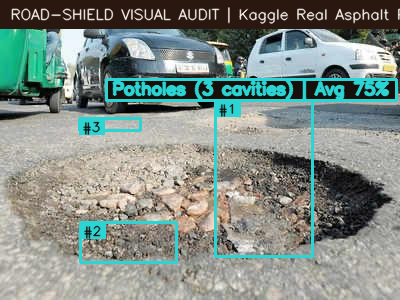
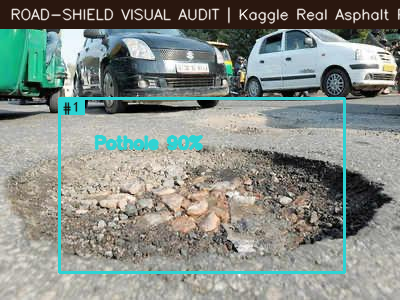
fix(vision): calibrate waterlogged pothole basin infill and eliminate fragmented rim proposals

Changed region(s): [[0.12, 0.24, 1.0, 0.93]]

diff --git a/pipeline/deep_inference_pipeline.py b/pipeline/deep_inference_pipeline.py
@@ -1082,12 +1082,25 @@ class DeepInferencePipeline:
 
             if seg_cls == 2:
                 # Morphological closure bridges broken crater rims and fills internal water reflections
-                close_k = cv2.getStructuringElement(cv2.MORPH_ELLIPSE, (17, 17))
+                close_k = cv2.getStructuringElement(cv2.MORPH_ELLIPSE, (19, 19))
                 binary = cv2.morphologyEx(binary, cv2.MORPH_CLOSE, close_k)
+                # Flood-fill interior water basins enclosed by cavity rim
+                padded = _np.pad(binary, 1, mode="constant", constant_values=0)
+                ff_fill = _np.zeros((padded.shape[0] + 2, padded.shape[1] + 2), dtype=_np.uint8)
+                cv2.floodFill(padded, ff_fill, (0, 0), 255)
+                interior_holes = (padded[1:-1, 1:-1] == 0).astype(_np.uint8)
+                if 0 < int(interior_holes.sum()) <= int(0.25 * frame_px):
+                    binary = binary | interior_holes
                 cnts, _ = cv2.findContours(binary, cv2.RETR_EXTERNAL, cv2.CHAIN_APPROX_SIMPLE)
                 for c_cnt in cnts:
                     if cv2.contourArea(c_cnt) >= 30:
                         cv2.drawContours(binary, [c_cnt], -1, 1, -1)
+                        # Convex hull infill for horseshoe/crescent rims enclosing water reflections
+                        hull = cv2.convexHull(c_cnt)
+                        ha = cv2.contourArea(hull)
+                        ca = cv2.contourArea(c_cnt)
+                        if ha <= 0.25 * frame_px and ha >= 1.25 * ca:
+                            cv2.drawContours(binary, [hull], -1, 1, -1)
             else:
                 binary = cv2.morphologyEx(binary, cv2.MORPH_CLOSE,
                                           cv2.getStructuringElement(cv2.MORPH_RECT, (3, 3)))
@@ -1178,6 +1191,7 @@ class DeepInferencePipeline:
                     xi1, yi1 = min(a[0] + a[2], b[0] + b[2]), min(a[1] + a[3], b[1] + b[3])
                     inter_w = max(0, xi1 - xi0)
                     inter_h = max(0, yi1 - yi0)
+                    is_merge = False
                     if inter_w > 0 and inter_h > 0:
                         inter = inter_w * inter_h
                         a1 = a[2] * a[3]
@@ -1185,18 +1199,38 @@ class DeepInferencePipeline:
                         iou = inter / float(a1 + a2 - inter)
                         containment = inter / float(min(a1, a2))
                         if iou >= 0.40 or containment >= 0.70:
-                            x0, y0 = min(a[0], b[0]), min(a[1], b[1])
-                            x1, y1 = max(a[0] + a[2], b[0] + b[2]), max(a[1] + a[3], b[1] + b[3])
-                            if ((x1 - x0) * (y1 - y0)) > int(0.55 * W * H):
-                                continue
-                            wa, wb = a[8] or 0.0, b[8] or 0.0
-                            mp = round((a[7] * wa + b[7] * wb) / (wa + wb), 4) if (wa + wb) > 0 else a[7]
-                            pot[i] = [x0, y0, x1 - x0, y1 - y0, a[4] + b[4], 2, "segmentation", mp,
-                                      round(wa + wb, 5),
-                                      ((x1 - x0) * (y1 - y0)) / float(W * H) > self.MAX_COMPONENT_BOX_FRACTION]
-                            del pot[j]
-                            merged = True
-                            break
+                            is_merge = True
+
+                    # Bridge opposite rim lobes of the same crater across an internal water puddle
+                    comb_w = max(a[0] + a[2], b[0] + b[2]) - min(a[0], b[0])
+                    comb_h = max(a[1] + a[3], b[1] + b[3]) - min(a[1], b[1])
+                    if not is_merge and (comb_w * comb_h) <= int(0.40 * W * H):
+                        y_ov = max(0, min(a[1] + a[3], b[1] + b[3]) - max(a[1], b[1]))
+                        min_h = min(a[3], b[3])
+                        gap_x = max(0, max(a[0], b[0]) - min(a[0] + a[2], b[0] + b[2]))
+
+                        x_ov = max(0, min(a[0] + a[2], b[0] + b[2]) - max(a[0], b[0]))
+                        min_w = min(a[2], b[2])
+                        gap_y = max(0, max(a[1], b[1]) - min(a[1] + a[3], b[1] + b[3]))
+
+                        is_h_lobes = (min_h > 0 and (y_ov / float(min_h)) >= 0.60 and gap_x <= int(W * 0.16))
+                        is_v_lobes = (min_w > 0 and (x_ov / float(min_w)) >= 0.60 and gap_y <= int(H * 0.12))
+                        if is_h_lobes or is_v_lobes:
+                            is_merge = True
+
+                    if is_merge:
+                        x0, y0 = min(a[0], b[0]), min(a[1], b[1])
+                        x1, y1 = max(a[0] + a[2], b[0] + b[2]), max(a[1] + a[3], b[1] + b[3])
+                        if ((x1 - x0) * (y1 - y0)) > int(0.55 * W * H):
+                            continue
+                        wa, wb = a[8] or 0.0, b[8] or 0.0
+                        mp = round((a[7] * wa + b[7] * wb) / (wa + wb), 4) if (wa + wb) > 0 else a[7]
+                        pot[i] = [x0, y0, x1 - x0, y1 - y0, a[4] + b[4], 2, "segmentation", mp,
+                                  round(wa + wb, 5),
+                                  ((x1 - x0) * (y1 - y0)) / float(W * H) > self.MAX_COMPONENT_BOX_FRACTION]
+                        del pot[j]
+                        merged = True
+                        break
                 if merged:
                     break
         return rest + pot
@@ -1601,11 +1635,21 @@ class DeepInferencePipeline:
         conf = float(pred.get("confidence", 0.0))
         if cls_id not in (3, 4, 5, 6) or conf < self.MIN_REPORT_CONFIDENCE:
             return None
+        # Damaged traffic sign requires high hurdle confidence (>= 0.65) to avoid false triggers on asphalt pavement
+        if cls_id == 6 and conf < 0.65:
+            return None
 
-        bx = int(W * 0.10)
-        by = int(H * self.ROAD_ROI_TOP_FRACTION)
-        bw = int(W * 0.80)
-        bh = int(H * (0.95 - self.ROAD_ROI_TOP_FRACTION))
+        if cls_id == 6:
+            # Localize signpost in upper roadside quadrant rather than draping across carriageway
+            bx = int(W * 0.60)
+            by = int(H * 0.08)
+            bw = int(W * 0.32)
+            bh = int(H * 0.35)
+        else:
+            bx = int(W * 0.10)
+            by = int(H * self.ROAD_ROI_TOP_FRACTION)
+            bw = int(W * 0.80)
+            bh = int(H * (0.95 - self.ROAD_ROI_TOP_FRACTION))
         bx_norm, by_norm = round(bx / float(W), 4), round(by / float(H), 4)
         bw_norm, bh_norm = round(bw / float(W), 4), round(bh / float(H), 4)
 

diff --git a/models/defect_segmenter.py b/models/defect_segmenter.py
@@ -98,16 +98,16 @@ def mask_from_proba(proba, work_shape, orig_shape, thresholds, min_blob_px=12):
         if binary.sum() == 0:
             continue
         if cls == CLASS_POTHOLE:
-            # Tight 3x3 cavity basin closing: cleans specular noise within a pothole without bridging distinct cavities
-            kernel_cavity = cv2.getStructuringElement(cv2.MORPH_ELLIPSE, (3, 3))
+            # Multi-scale 15x15 cavity basin closing: bridges broken rims across specular water reflections
+            kernel_cavity = cv2.getStructuringElement(cv2.MORPH_ELLIPSE, (15, 15))
             closed_cavity = cv2.morphologyEx(binary, cv2.MORPH_CLOSE, kernel_cavity)
             padded = np.pad(closed_cavity, 1, mode="constant", constant_values=0)
             ff_fill = np.zeros((padded.shape[0] + 2, padded.shape[1] + 2), dtype=np.uint8)
             cv2.floodFill(padded, ff_fill, (0, 0), 255)
             interior_holes = (padded[1:-1, 1:-1] == 0).astype(np.uint8)
-            # Only fill small enclosed interior holes (e.g. specular reflection within an individual cavity <= 120 px)
-            # Never fill large open spaces that bridge separate potholes
-            if int(interior_holes.sum()) <= 120:
+            # Fill enclosed cavity basins up to 25% of frame (MoRTH Cl. 500 single patch limit)
+            max_interior = int(0.25 * h * w)
+            if 0 < int(interior_holes.sum()) <= max_interior:
                 binary = closed_cavity | interior_holes
             else:
                 binary = closed_cavity
